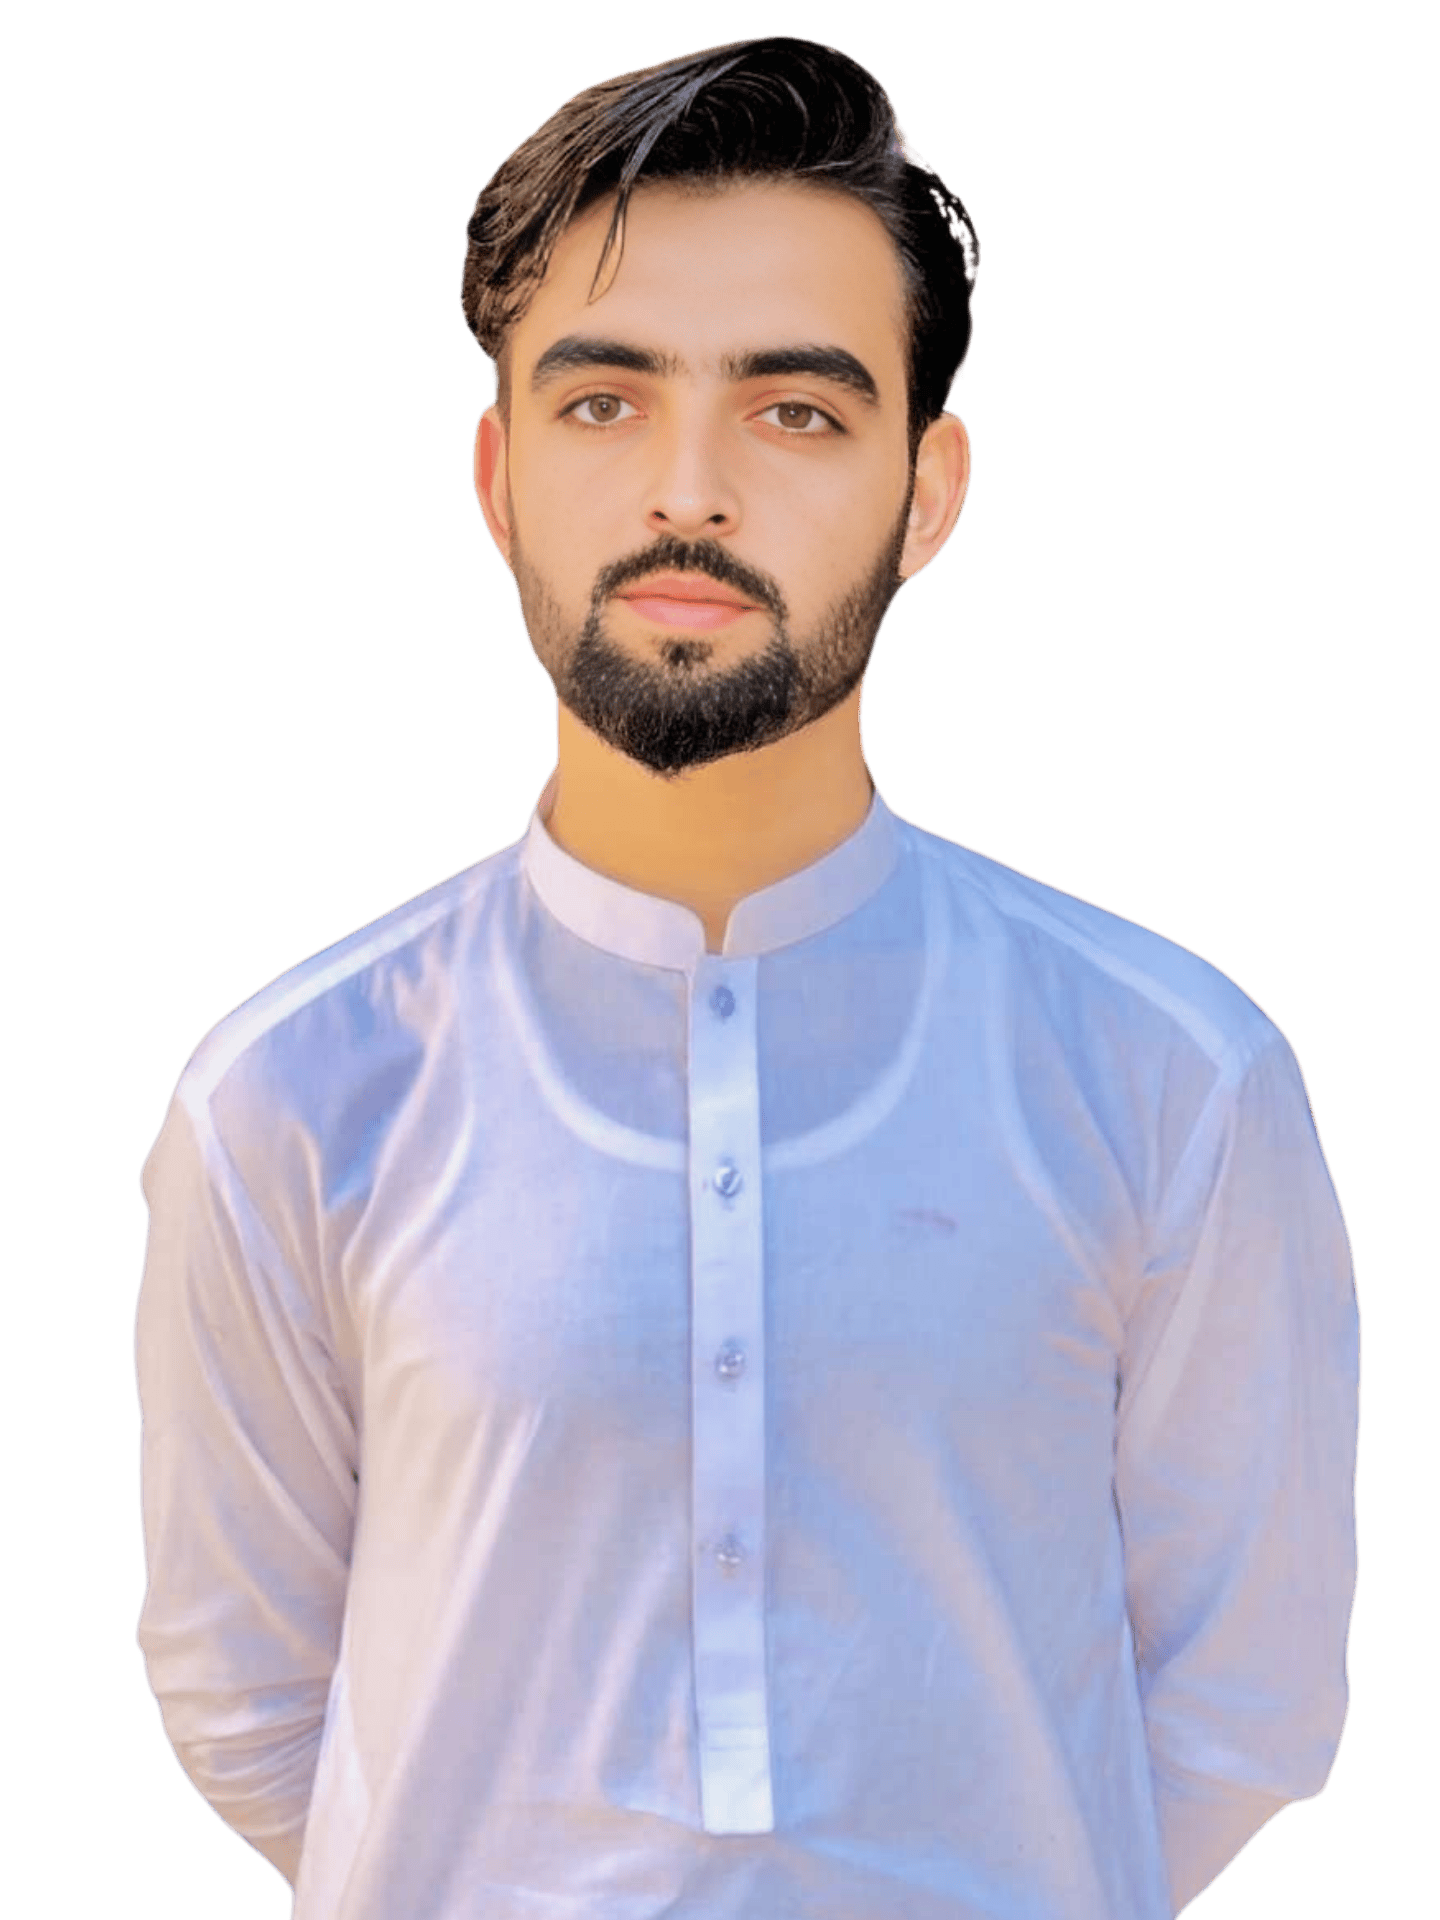
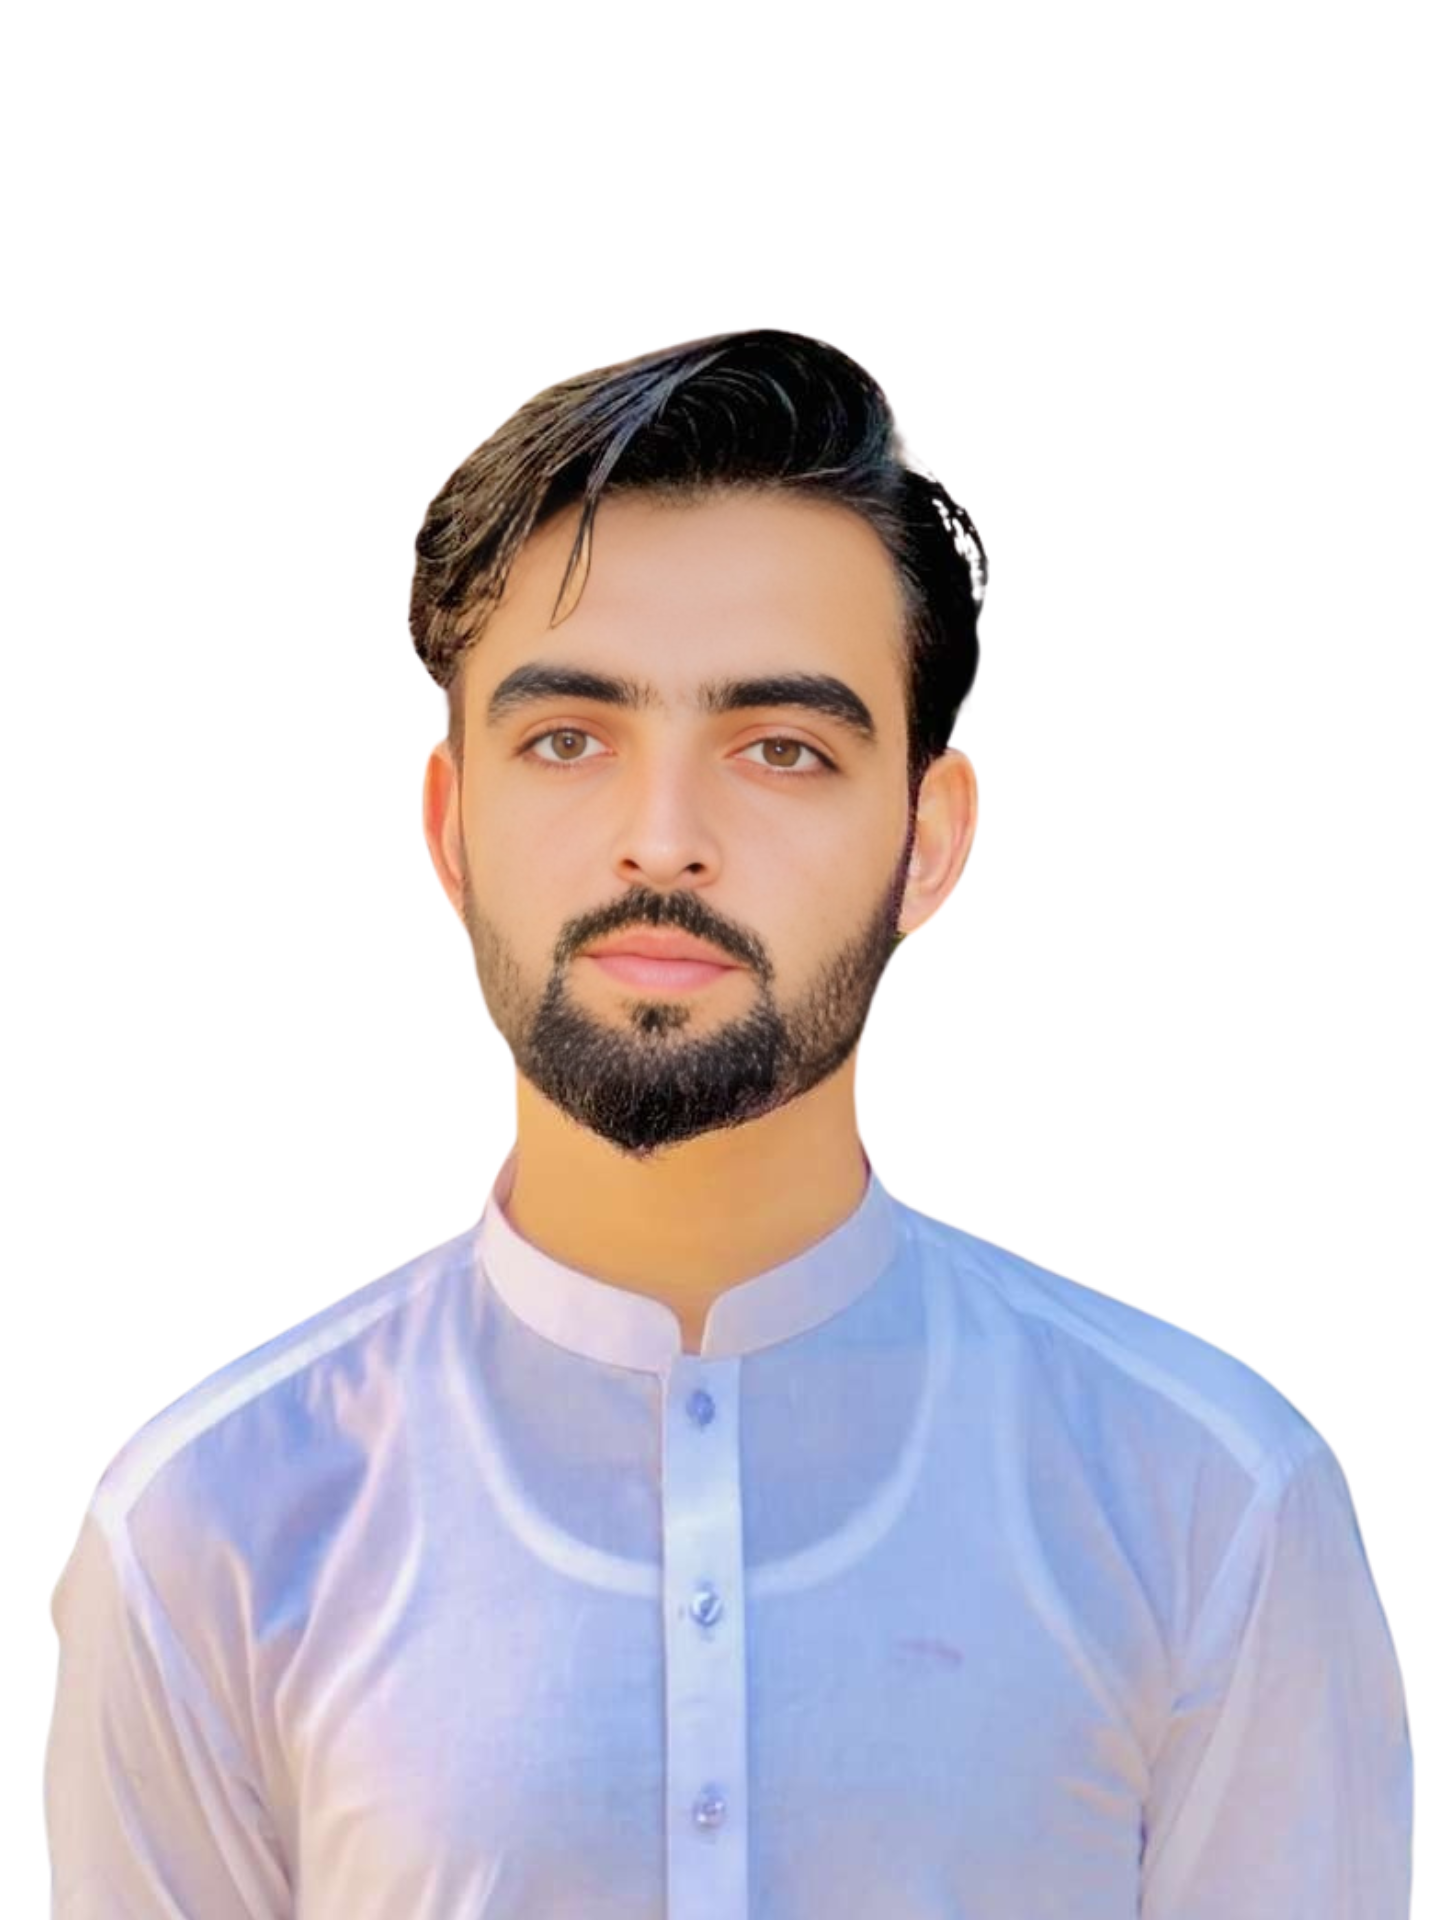
Hero section modified

diff --git a/src/app/projects/page.tsx b/src/app/projects/page.tsx
@@ -1,7 +1,137 @@
+import Image from "next/image";
 import React from "react";
 
 const page = () => {
-  return <div>Projects page</div>;
+  return (
+    <div>
+      <section className="text-gray-600 body-font">
+        <div className="container px-5 py-24 mx-auto">
+          <div className="flex flex-wrap -m-4">
+            <div className="p-4 md:w-1/3">
+              <div className="h-full border-2 border-gray-200 border-opacity-60 rounded-lg overflow-hidden">
+                <Image
+                  width={100}
+                  height={100}
+                  className="lg:h-48 md:h-36 w-full object-cover object-center"
+                  src="/722x402.png"
+                  alt="project"
+                />
+                <div className="p-6">
+                  <h2 className="tracking-widest text-xs title-font font-medium text-gray-400 mb-1">
+                    CATEGORY
+                  </h2>
+                  <h1 className="title-font text-lg font-medium text-gray-900 mb-3">
+                    Project 1
+                  </h1>
+                  <p className="leading-relaxed mb-3">
+                    Photo booth fam kinfolk cold-pressed sriracha leggings
+                    jianbing microdosing tousled waistcoat.
+                  </p>
+                  <div className="flex items-center flex-wrap ">
+                    <a className="text-primary3 inline-flex items-center md:mb-2 lg:mb-0 cursor-pointer">
+                      Preveiw
+                      <svg
+                        className="w-4 h-4 ml-2"
+                        viewBox="0 0 24 24"
+                        stroke="currentColor"
+                        stroke-width="2"
+                        fill="none"
+                        stroke-linecap="round"
+                        stroke-linejoin="round"
+                      >
+                        <path d="M5 12h14"></path>
+                        <path d="M12 5l7 7-7 7"></path>
+                      </svg>
+                    </a>
+                  </div>
+                </div>
+              </div>
+            </div>
+            <div className="p-4 md:w-1/3">
+              <div className="h-full border-2 border-gray-200 border-opacity-60 rounded-lg overflow-hidden">
+                <Image
+                  width={100}
+                  height={100}
+                  className="lg:h-48 md:h-36 w-full object-cover object-center"
+                  src="/722x402.png"
+                  alt="project"
+                />
+                <div className="p-6">
+                  <h2 className="tracking-widest text-xs title-font font-medium text-gray-400 mb-1">
+                    CATEGORY
+                  </h2>
+                  <h1 className="title-font text-lg font-medium text-gray-900 mb-3">
+                    Project 2
+                  </h1>
+                  <p className="leading-relaxed mb-3">
+                    Photo booth fam kinfolk cold-pressed sriracha leggings
+                    jianbing microdosing tousled waistcoat.
+                  </p>
+                  <div className="flex items-center flex-wrap">
+                    <a className="text-primary3 inline-flex items-center md:mb-2 lg:mb-0 cursor-pointer">
+                      Preveiw
+                      <svg
+                        className="w-4 h-4 ml-2"
+                        viewBox="0 0 24 24"
+                        stroke="currentColor"
+                        stroke-width="2"
+                        fill="none"
+                        stroke-linecap="round"
+                        stroke-linejoin="round"
+                      >
+                        <path d="M5 12h14"></path>
+                        <path d="M12 5l7 7-7 7"></path>
+                      </svg>
+                    </a>
+                  </div>
+                </div>
+              </div>
+            </div>
+            <div className="p-4 md:w-1/3">
+              <div className="h-full border-2 border-gray-200 border-opacity-60 rounded-lg overflow-hidden">
+                <Image
+                  width={100}
+                  height={100}
+                  className="lg:h-48 md:h-36 w-full object-cover object-center"
+                  src="/722x402.png"
+                  alt="project"
+                />
+                <div className="p-6">
+                  <h2 className="tracking-widest text-xs title-font font-medium text-gray-400 mb-1">
+                    CATEGORY
+                  </h2>
+                  <h1 className="title-font text-lg font-medium text-gray-900 mb-3">
+                    Project 3
+                  </h1>
+                  <p className="leading-relaxed mb-3">
+                    Photo booth fam kinfolk cold-pressed sriracha leggings
+                    jianbing microdosing tousled waistcoat.
+                  </p>
+                  <div className="flex items-center flex-wrap ">
+                    <a className="text-primary3 inline-flex items-center md:mb-2 lg:mb-0 cursor-pointer">
+                      Preveiw
+                      <svg
+                        className="w-4 h-4 ml-2"
+                        viewBox="0 0 24 24"
+                        stroke="currentColor"
+                        stroke-width="2"
+                        fill="none"
+                        stroke-linecap="round"
+                        stroke-linejoin="round"
+                      >
+                        <path d="M5 12h14"></path>
+                        <path d="M12 5l7 7-7 7"></path>
+                      </svg>
+                    </a>
+                  </div>
+                </div>
+              </div>
+            </div>
+          </div>
+        </div>
+      </section>
+    </div>
+  );
 };
 
 export default page;

diff --git a/src/app/components/Hero.tsx b/src/app/components/Hero.tsx
@@ -107,10 +107,10 @@ const Hero = () => {
           alt="Hero-Image"
           height={400}
           width={400}
-          className="object-contain mt-8 z-10 w-[200px] h-[300px] sm:w-[300px] sm:h-[400px] md:w-[400px] md:h-[600px] lg:w-full lg:h-[600px] lg:-mb-7"
+          className="object-contain z-10 w-[300px] h-[500px] sm:w-[300px] sm:h-[400px] md:w-[500px] md:h-[600px] lg:w-full lg:h-[500px] lg:-mt-14 shadow-lg shadow-primary1 rounded-full"
         />
 
-        {/* Background Image */}
+        {/* Background Image
         <Image
           ref={bgRef}
           src="/background.png"
@@ -118,7 +118,7 @@ const Hero = () => {
           width={1000}
           height={1000}
           className="absolute z-0 object-contain w-[250px] h-[250px] sm:w-[350px] sm:h-[350px] md:w-[450px] md:h-[450px] lg:w-full lg:h-full background-image"
-        />
+        /> */}
       </div>
 
       {/* Text Section */}
